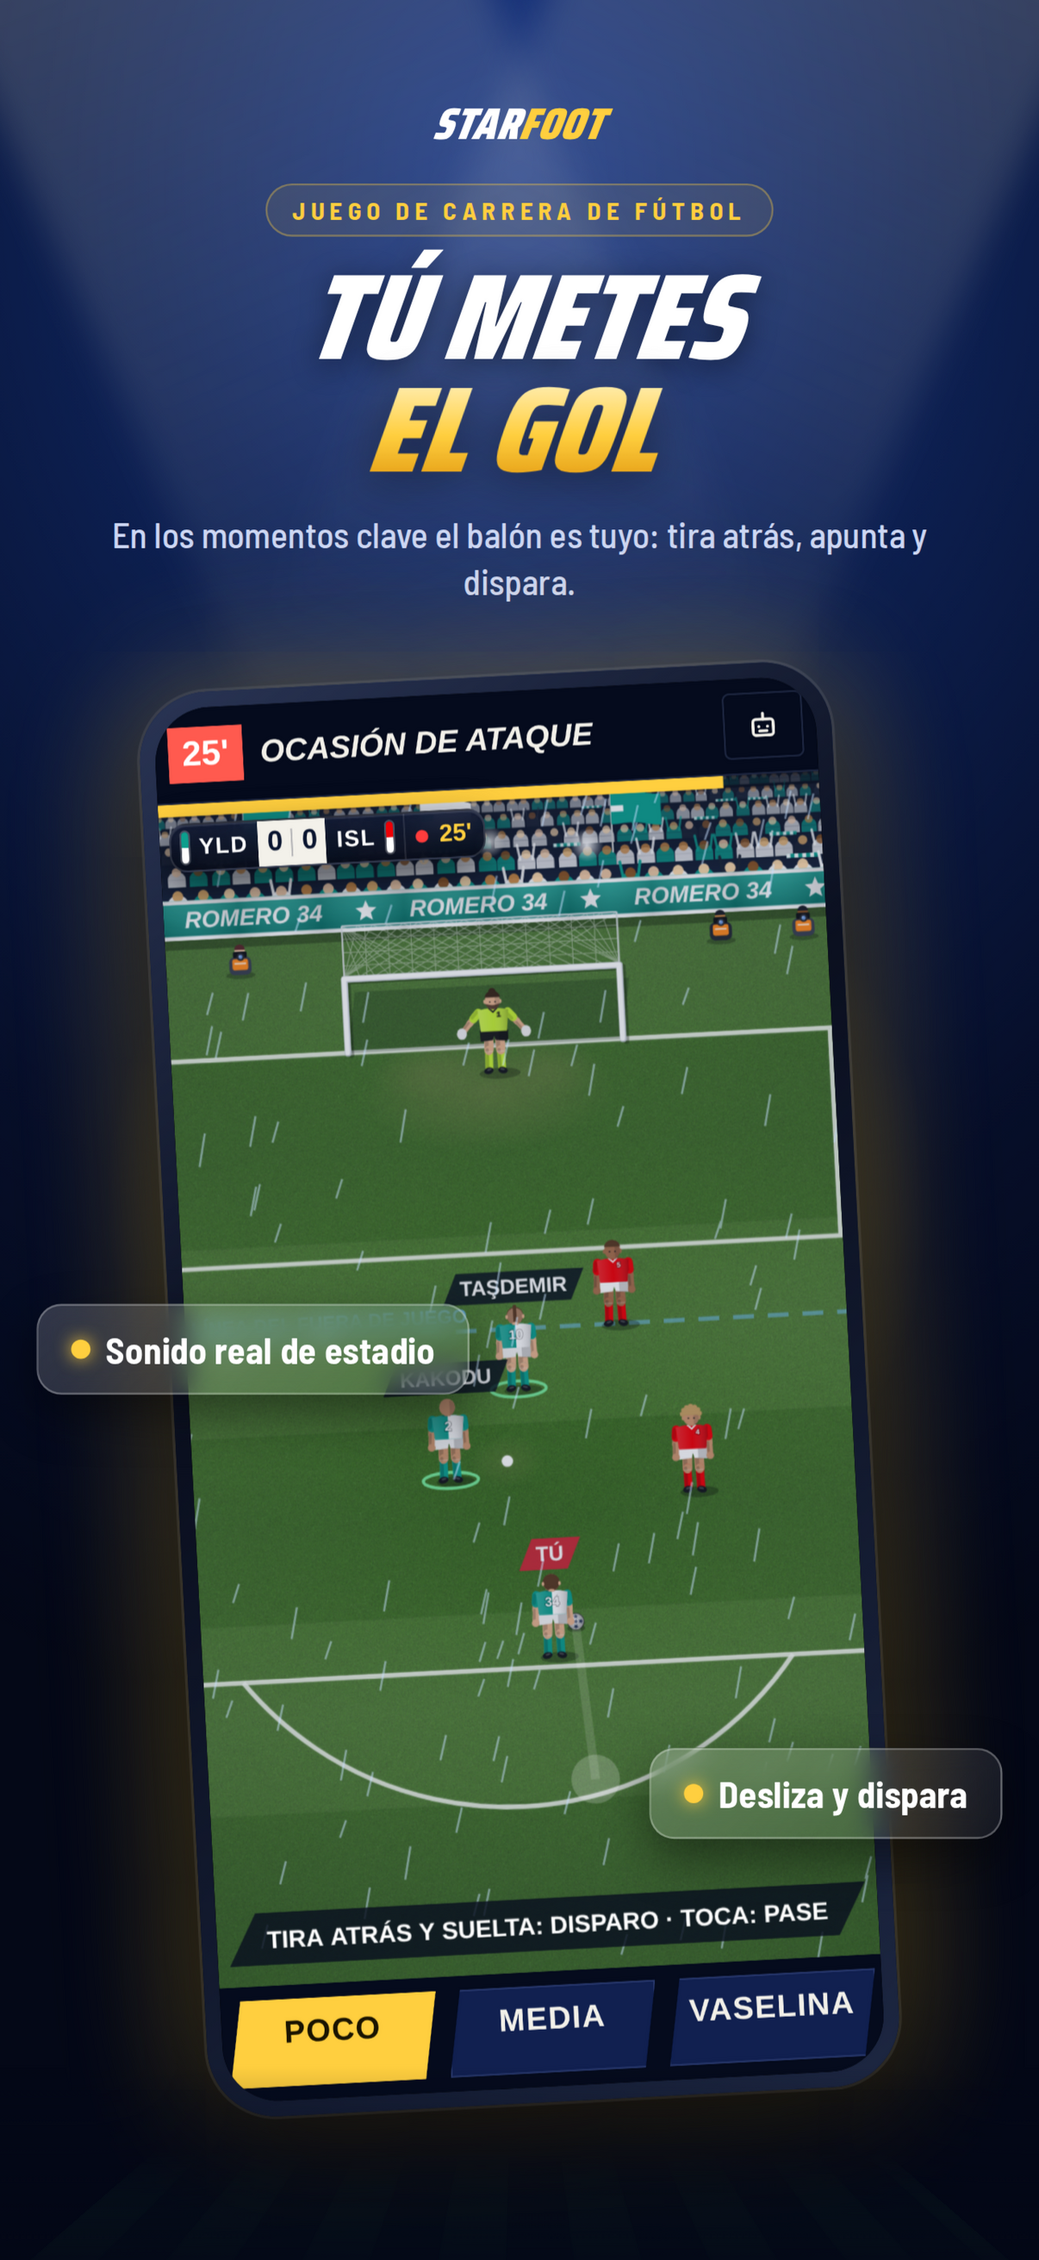
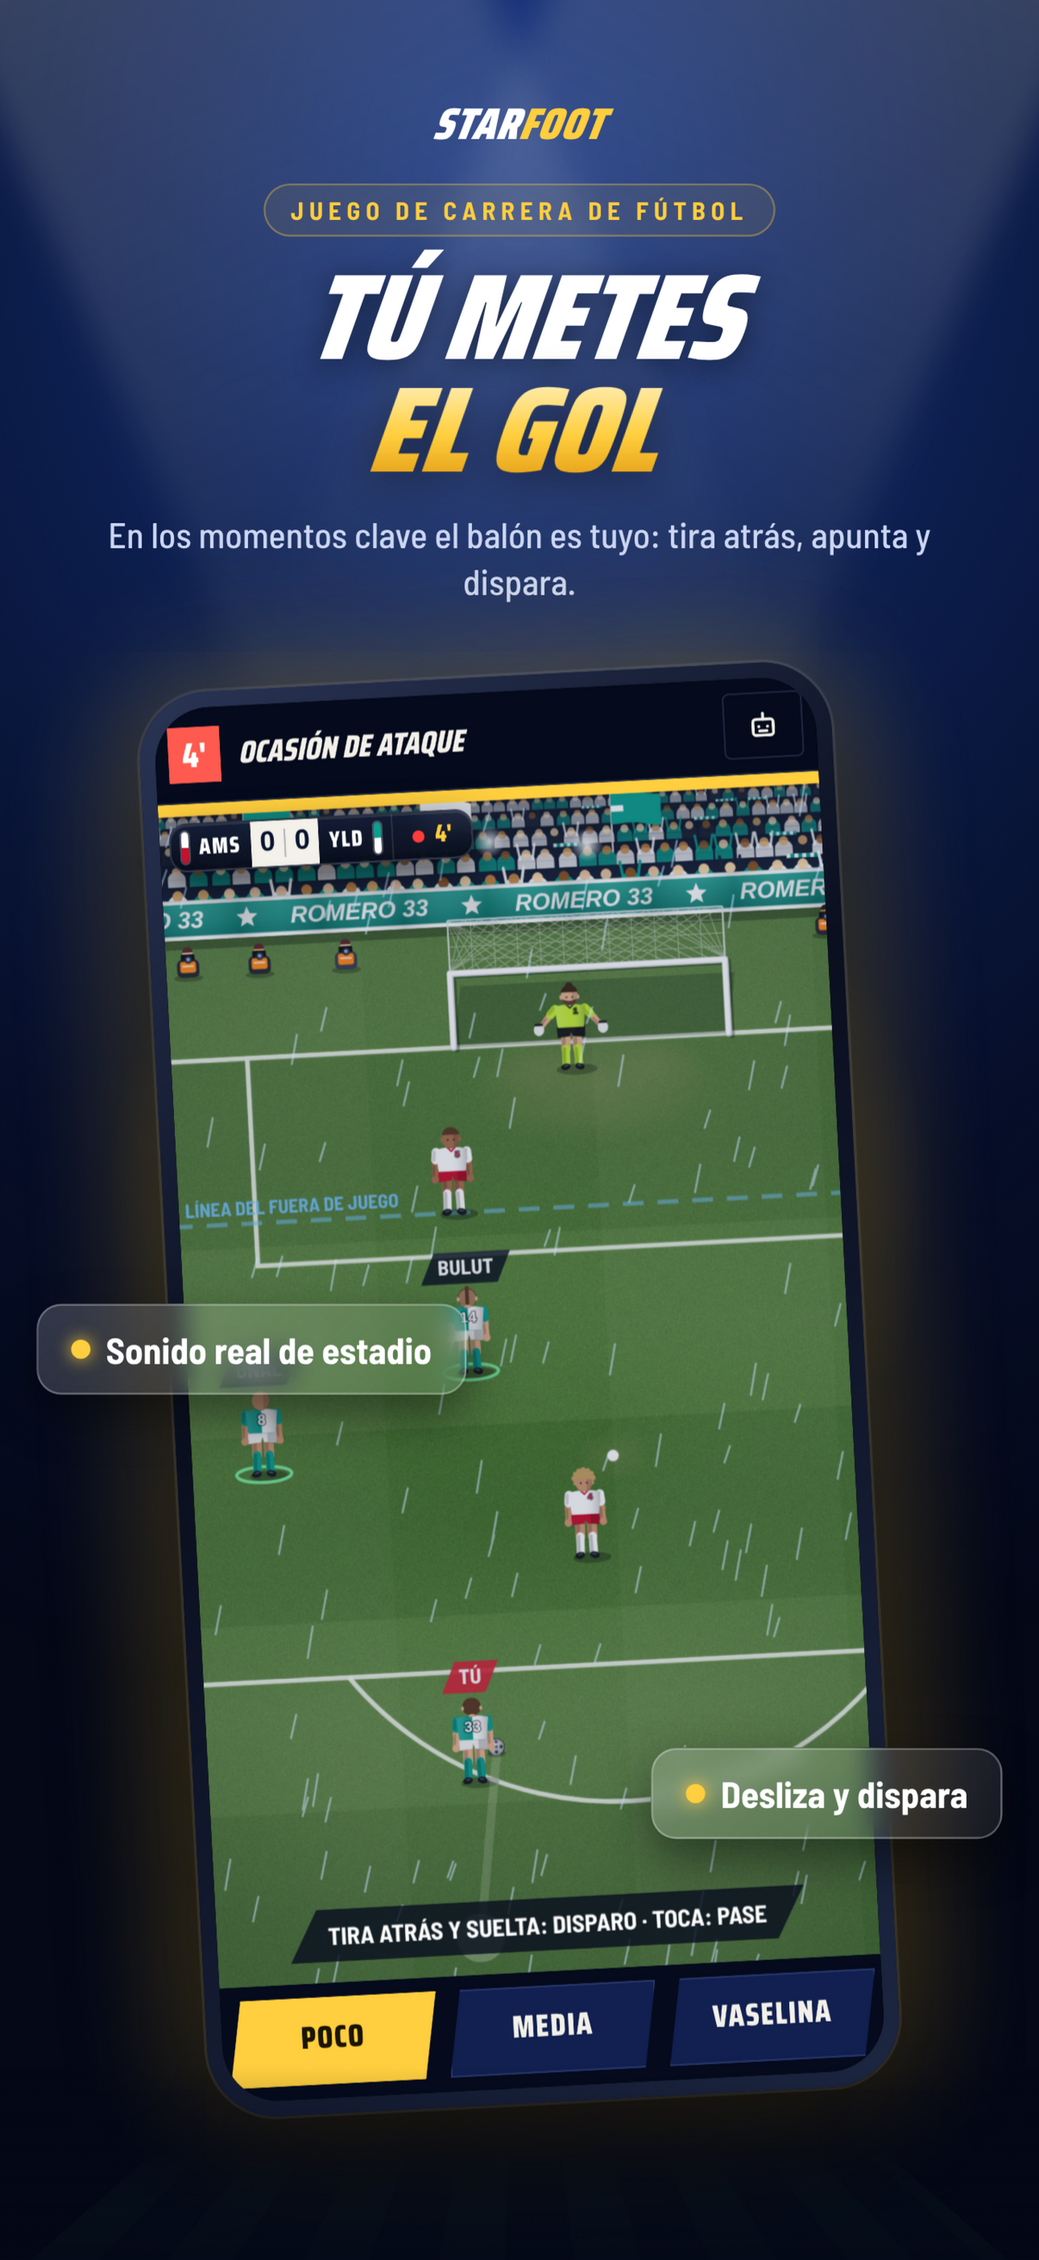
1.0.19 mağaza hazırlığı: yeni ekran görüntüleri, Teknik Direktör etkinliği, starfoot://coach bağlantısı [skip ci]
- App Store görselleri (TR/EN/ES, iPhone 6.9" ve 6.3", iPad 13"): 2. görsel Teknik Direktör canlı maç ekranı,
  madalyalar sahnesi çıkarıldı; tüm sahneler oyunun güncel haliyle yeniden çekildi
- Uygulama içi etkinlik taslağı "Teknik Direktör Oldun!" (9 dil, yazısız kart ve detay görseli)
- starfoot://coach derin bağlantısı: Teknik Direktör menüsünü ya da satın alma penceresini açar
- Teknik Direktör inceleme görseli 3.99 USD ile; store/packs/review.js ile yeniden üretilebilir

Claude-Session: https://claude.ai/code/session_01UbcWLKQFNpV9b87MzUtaVX

diff --git a/store/premium/compose2.js b/store/premium/compose2.js
@@ -1,4 +1,4 @@
-// 1.0.11 App Store görselleri (7 sahne, 10 dil): node store/premium/compose2.js [ipad]
+// App Store görselleri (7 sahne: gol, teknik direktör, maç, kupa, sokak, DŞ, yaşam; 10 dil): node store/premium/compose2.js [ipad]
 // Önce: node store/premium/capture2.js (ham ekranlar raw2/, iPad için VIEW=ipad → raw2-ipad/)
 const { chromium } = require('playwright');
 const path = require('path');
@@ -17,6 +17,18 @@ const POSTERS = [
     ind: { tag: 'GAME KARIER SEPAK BOLA', h1: 'KAMU YANG', h2: 'CETAK GOL', sub: 'Di momen penting bola ada di kakimu: tarik, bidik, tendang!', chips: [['Suara stadion asli', 'left', 1060], ['Geser & tendang', 'right', 1520]] },
     ar: { tag: 'لعبة مسيرة كرة القدم', h1: 'أنت من', h2: 'يسجل الهدف', sub: 'في اللحظات الحاسمة الكرة عند قدميك: اسحب، صوّب، سدّد!', chips: [['صوت ملعب حقيقي', 'left', 1060], ['اسحب وسدد', 'right', 1520]] },
     ja: { tag: 'サッカーキャリアゲーム', h1: 'ゴールを', h2: '決めるのは君', sub: '決定的な瞬間、ボールは君の足元に。引いて、狙って、蹴り込め！', chips: [['本物のスタジアム音', 'left', 1060], ['引いてシュート', 'right', 1520]] },
+  }),
+  P('coach', '#46e08f', 'rgba(70,224,143,.42)', 3, {}, {
+    tr: { tag: 'YENİ MOD', h1: 'TEKNİK', h2: 'DİREKTÖR OL', sub: 'Kadroyu kur, taktiği seç, maçı kenardan canlı yönet.', chips: [['Canlı maç yönetimi', 'right', 1000], ['Transfer ve pazarlık', 'left', 1560]] },
+    en: { tag: 'NEW MODE', h1: 'BECOME THE', h2: 'MANAGER', sub: 'Build the squad, pick tactics and run matches live from the touchline.', chips: [['Live touchline control', 'right', 1000], ['Transfers & negotiation', 'left', 1560]] },
+    es: { tag: 'NUEVO MODO', h1: 'SÉ EL', h2: 'ENTRENADOR', sub: 'Arma la plantilla, elige la táctica y dirige el partido en directo.', chips: [['Dirige en directo', 'right', 1000], ['Fichajes y negociación', 'left', 1560]] },
+    pt: { tag: 'NOVO MODO', h1: 'SEJA O', h2: 'TÉCNICO', sub: 'Monte o elenco, escolha a tática e comande o jogo ao vivo.', chips: [['Comando ao vivo', 'right', 1000], ['Contratações', 'left', 1560]] },
+    de: { tag: 'NEUER MODUS', h1: 'WERDE', h2: 'TRAINER', sub: 'Kader bauen, Taktik wählen und Spiele live von der Seitenlinie leiten.', chips: [['Live an der Seitenlinie', 'right', 1000], ['Transfers & Verhandlungen', 'left', 1560]] },
+    fr: { tag: 'NOUVEAU MODE', h1: 'DEVIENS', h2: 'ENTRAÎNEUR', sub: "Compose l'effectif, choisis la tactique et dirige le match en direct.", chips: [['Coaching en direct', 'right', 1000], ['Transferts', 'left', 1560]] },
+    it: { tag: 'NUOVA MODALITÀ', h1: 'DIVENTA', h2: 'ALLENATORE', sub: 'Costruisci la rosa, scegli la tattica e guida la partita dal vivo.', chips: [['Guida dal vivo', 'right', 1000], ['Calciomercato', 'left', 1560]] },
+    ind: { tag: 'MODE BARU', h1: 'JADILAH', h2: 'PELATIH', sub: 'Bangun skuad, pilih taktik dan pimpin laga langsung dari pinggir lapangan.', chips: [['Kendali langsung', 'right', 1000], ['Transfer & negosiasi', 'left', 1560]] },
+    ar: { tag: 'وضع جديد', h1: 'كن', h2: 'المدرب', sub: 'ابنِ التشكيلة واختر الخطة وقُد المباراة مباشرة من خط التماس.', chips: [['قيادة مباشرة', 'right', 1000], ['الانتقالات والتفاوض', 'left', 1560]] },
+    ja: { tag: '新モード', h1: '監督に', h2: 'なろう', sub: '選手を揃え、戦術を決め、ベンチから試合をライブで指揮。', chips: [['ライブ采配', 'right', 1000], ['移籍・交渉', 'left', 1560]] },
   }),
   P('match', '#8fb8ff', 'rgba(120,170,255,.5)', 3, { stars: true }, {
     tr: { tag: 'CANLI MAÇ', h1: 'MAÇI', h2: 'CANLI YAŞA', sub: 'Maç radarı, dakika dakika akış ve tribünün uğultusu.', chips: [['Maç radarı', 'right', 1000], ['Şampiyonlar Kupası geceleri', 'left', 1560]] },
@@ -77,18 +89,6 @@ const POSTERS = [
     ind: { tag: 'HIDUP DI LUAR LAPANGAN', h1: 'BINTANG', h2: 'DI LUAR LAPANGAN', sub: 'Mobil super, vila, sponsor, dan jutaan pengikut.', chips: [['Etalase mewah', 'right', 1040], ['Jutaan pengikut', 'left', 1520]] },
     ar: { tag: 'الحياة خارج الملعب', h1: 'نجم', h2: 'خارج الملعب', sub: 'سيارات خارقة وفلل وعقود رعاية وملايين المتابعين.', chips: [['واجهة الحياة الفاخرة', 'right', 1040], ['ملايين المتابعين', 'left', 1520]] },
     ja: { tag: 'ピッチ外のライフ', h1: 'ピッチの外でも', h2: 'スターに', sub: 'スーパーカー、豪邸、スポンサー契約、そして数百万のフォロワー。', chips: [['ラグジュアリー', 'right', 1040], ['数百万のフォロワー', 'left', 1520]] },
-  }),
-  P('medals', '#ffd36b', 'rgba(255,190,60,.5)', -3, {}, {
-    tr: { tag: 'BAŞARIMLAR', h1: '100+ MADALYA', h2: 'DÜNYA SIRALAMASI', sub: "Game Center'da dünyayla yarış; kariyerin iCloud'da güvende.", chips: [['Game Center', 'left', 1060], ['iCloud yedeği', 'right', 1520]] },
-    en: { tag: 'ACHIEVEMENTS', h1: '100+ MEDALS', h2: 'WORLD RANKINGS', sub: 'Compete with the world on Game Center; your career is safe in iCloud.', chips: [['Game Center', 'left', 1060], ['iCloud backup', 'right', 1520]] },
-    es: { tag: 'LOGROS', h1: '100+ MEDALLAS', h2: 'RANKING MUNDIAL', sub: 'Compite con el mundo en Game Center; tu carrera, a salvo en iCloud.', chips: [['Game Center', 'left', 1060], ['Copia en iCloud', 'right', 1520]] },
-    pt: { tag: 'CONQUISTAS', h1: '100+ MEDALHAS', h2: 'RANKING MUNDIAL', sub: 'Dispute com o mundo no Game Center; sua carreira segura no iCloud.', chips: [['Game Center', 'left', 1060], ['Backup no iCloud', 'right', 1520]] },
-    de: { tag: 'ERFOLGE', h1: '100+ MEDAILLEN', h2: 'WELTRANGLISTE', sub: 'Miss dich mit der Welt im Game Center; deine Karriere ist in iCloud sicher.', chips: [['Game Center', 'left', 1060], ['iCloud-Backup', 'right', 1520]] },
-    fr: { tag: 'SUCCÈS', h1: '100+ MÉDAILLES', h2: 'CLASSEMENT MONDIAL', sub: 'Affronte le monde sur Game Center ; ta carrière est en sécurité sur iCloud.', chips: [['Game Center', 'left', 1060], ['Sauvegarde iCloud', 'right', 1520]] },
-    it: { tag: 'OBIETTIVI', h1: '100+ MEDAGLIE', h2: 'CLASSIFICA MONDIALE', sub: 'Sfida il mondo su Game Center; la tua carriera è al sicuro su iCloud.', chips: [['Game Center', 'left', 1060], ['Backup iCloud', 'right', 1520]] },
-    ind: { tag: 'PENCAPAIAN', h1: '100+ MEDALI', h2: 'PERINGKAT DUNIA', sub: 'Bersaing dengan dunia di Game Center; kariermu aman di iCloud.', chips: [['Game Center', 'left', 1060], ['Cadangan iCloud', 'right', 1520]] },
-    ar: { tag: 'الإنجازات', h1: 'أكثر من 100 ميدالية', h2: 'الترتيب العالمي', sub: 'نافس العالم في Game Center؛ مسيرتك آمنة في iCloud.', chips: [['Game Center', 'left', 1060], ['نسخة iCloud', 'right', 1520]] },
-    ja: { tag: '実績', h1: '100以上のメダル', h2: '世界ランキング', sub: 'Game Centerで世界と競い、キャリアはiCloudで安心。', chips: [['Game Center', 'left', 1060], ['iCloudバックアップ', 'right', 1520]] },
   }),
 ];
 

diff --git a/store/asc/events/coach-art.js b/store/asc/events/coach-art.js
@@ -1,0 +1,59 @@
+// "Teknik Direktör" uygulama içi etkinliği görselleri (yazısız): node store/asc/events/coach-art.js
+// coach-card.jpg 1920x1080 ve coach-details.jpg 1080x1920. Yerel sunucu gerekir: python3 -m http.server 8765
+const { chromium } = require('playwright');
+const path = require('path');
+const fs = require('fs');
+(async () => {
+  const b = await chromium.launch();
+  for (const [name, W, H] of [['coach-card', 1920, 1080], ['coach-details', 1080, 1920]]) {
+    const pg = await b.newPage({ viewport: { width: W, height: H } });
+    await pg.goto('http://localhost:8765/oyna-r8k4tq.html');
+    await pg.waitForTimeout(700);
+    const data = await pg.evaluate(([W, H]) => {
+      document.body.innerHTML = `<canvas id="cv" width="${W}" height="${H}"></canvas>`;
+      const c = document.getElementById('cv').getContext('2d');
+      const P = { c1: '#c8102e', c2: '#ffcf3f' };
+      SocialArt.stadium(c, W, H, SocialArt.rng(19), P, false);
+      const wide = W > H;
+      // akşam ışığı ve hafif bulanık derinlik
+      const g = c.createRadialGradient(W * 0.5, H * 0.15, 40, W * 0.5, H * 0.4, Math.max(W, H));
+      g.addColorStop(0, 'rgba(255,240,200,.18)'); g.addColorStop(1, 'rgba(0,0,0,.35)');
+      c.fillStyle = g; c.fillRect(0, 0, W, H);
+      // teknik alan çizgisi
+      const gy = H * (wide ? 0.97 : 0.9);
+      c.strokeStyle = 'rgba(255,255,255,.55)'; c.lineWidth = 6; c.setLineDash([26, 22]);
+      c.beginPath(); c.moveTo(0, gy - H * 0.06); c.lineTo(W, gy - H * 0.06); c.stroke(); c.setLineDash([]);
+      // arka planda oyuncular (bulanık)
+      c.save(); c.filter = 'blur(3px)'; c.globalAlpha = 0.85;
+      const pk = Sprites.kit({ id: 'X', c1: P.c1, c2: P.c2 }, false), ok = Sprites.kit({ id: 'Y', c1: '#1e5bd8', c2: '#ffffff' }, false);
+      [[0.84, 0.66, pk, 1.2], [0.93, 0.6, ok, 2.4]].forEach(([x, y, k, run], i) => {
+        if (!wide && x < 0.5) return;
+        Sprites.figure(c, W * (wide ? x : x - 0.05), H * y, H * (wide ? 0.22 : 0.13), { kit: k, look: Sprites.look(i + 3), facing: 'down', number: 7 + i, run, speed: 0.9, t: 0 });
+      });
+      c.restore();
+      // taktik tahtası
+      const bw = wide ? 560 : 520, bh = bw * 0.68, bx = wide ? W * 0.07 : W * 0.5 - bw / 2, by = wide ? H * 0.3 : H * 0.07;
+      c.save(); c.shadowColor = 'rgba(0,0,0,.5)'; c.shadowBlur = 40; c.fillStyle = '#1f6b3e'; c.fillRect(bx, by, bw, bh); c.restore();
+      c.strokeStyle = '#e8eef5'; c.lineWidth = 10; c.strokeRect(bx, by, bw, bh);
+      c.lineWidth = 4; c.strokeStyle = 'rgba(255,255,255,.8)';
+      c.beginPath(); c.moveTo(bx + bw / 2, by); c.lineTo(bx + bw / 2, by + bh); c.stroke();
+      c.beginPath(); c.arc(bx + bw / 2, by + bh / 2, bh * 0.16, 0, Math.PI * 2); c.stroke();
+      c.strokeRect(bx, by + bh * 0.28, bw * 0.12, bh * 0.44); c.strokeRect(bx + bw * 0.88, by + bh * 0.28, bw * 0.12, bh * 0.44);
+      const dots = [[0.12, 0.5], [0.27, 0.2], [0.27, 0.4], [0.27, 0.6], [0.27, 0.8], [0.45, 0.3], [0.45, 0.5], [0.45, 0.7], [0.65, 0.22], [0.68, 0.5], [0.65, 0.78]];
+      dots.forEach(([x, y]) => { c.fillStyle = '#ffcf3f'; c.beginPath(); c.arc(bx + bw * x, by + bh * y, 13, 0, Math.PI * 2); c.fill(); c.strokeStyle = '#0b1020'; c.lineWidth = 3; c.stroke(); });
+      // ok: hücum yönü
+      c.strokeStyle = '#ffffff'; c.lineWidth = 6; c.beginPath(); c.moveTo(bx + bw * 0.45, by + bh * 0.5); c.quadraticCurveTo(bx + bw * 0.6, by + bh * 0.35, bx + bw * 0.8, by + bh * 0.42); c.stroke();
+      c.fillStyle = '#ffffff'; c.beginPath(); c.moveTo(bx + bw * 0.83, by + bh * 0.43); c.lineTo(bx + bw * 0.78, by + bh * 0.36); c.lineTo(bx + bw * 0.77, by + bh * 0.47); c.closePath(); c.fill();
+      // takım elbiseli teknik direktör
+      const kit = { shirt: '#1d2433', alt: '#ffffff', pattern: 'plain', shorts: '#1d2433', socks: '#1d2433', pants: '#1d2433', coat: 'suit', tie: P.c1 };
+      const look = { skin: SKINS[2], hair: HAIRS[1], style: 'short', beard: 'stubble', boots: '#111' };
+      const fh = wide ? H * 0.8 : H * 0.52, fx = wide ? W * 0.6 : W * 0.5;
+      Sprites.figure(c, fx, gy, fh, { kit, look, facing: 'down', number: null, t: 0, longSleeve: true });
+      return document.getElementById('cv').toDataURL('image/jpeg', 0.92);
+    }, [W, H]);
+    fs.writeFileSync(path.join(__dirname, name + '.jpg'), Buffer.from(data.split(',')[1], 'base64'));
+    console.log(name);
+    await pg.close();
+  }
+  await b.close();
+})();

diff --git a/store/premium/capture2.js b/store/premium/capture2.js
@@ -1,5 +1,5 @@
 // 1.0.11 mağaza görselleri için ham oyun ekranları: LANGS=tr,en node store/premium/capture2.js
-// Sahneler: goal (kritik an), match (canlı maç + radar), trophy, street, wc, life, medals
+// Sahneler: goal (kritik an), coach (teknik direktör canlı maç), match (canlı maç + radar), trophy, street, wc, life
 // VIEW=ipad: iPad 13" ham ekranları raw2-ipad klasörüne
 const { chromium } = require('playwright');
 const path = require('path');
@@ -25,7 +25,7 @@ const ONLY = process.env.ONLY ? process.env.ONLY.split(',') : null;
       pg.errs = []; pg.on('pageerror', (e) => pg.errs.push(e.message));
       await pg.addInitScript((c) => { document.addEventListener('DOMContentLoaded', () => { const st = document.createElement('style'); st.textContent = c; document.head.appendChild(st); }); }, css + ja);
       await pg.goto('http://localhost:8765/oyna-r8k4tq.html');
-      await pg.evaluate((l) => { localStorage.clear(); localStorage.setItem('starfoot_lang', l); localStorage.setItem('starfoot_tut', 'done'); localStorage.setItem('starfoot_whatsnew', '1.0.11'); localStorage.setItem('starfoot_premium', '1'); localStorage.setItem('starfoot_pack_wc', '1'); localStorage.setItem('starfoot_pack_legends', '1'); localStorage.setItem('starfoot_cur', { tr: 'TRY', en: 'USD', es: 'EUR', pt: 'EUR', de: 'EUR', fr: 'EUR', it: 'EUR', id: 'USD', ar: 'USD', ja: 'USD' }[l] || 'USD'); }, l);
+      await pg.evaluate((l) => { localStorage.clear(); localStorage.setItem('starfoot_lang', l); localStorage.setItem('starfoot_tut', 'done'); localStorage.setItem('starfoot_whatsnew', '99'); localStorage.setItem('sf_v19', '1'); localStorage.setItem('starfoot_pack_coach', '1'); localStorage.setItem('starfoot_premium', '1'); localStorage.setItem('starfoot_pack_wc', '1'); localStorage.setItem('starfoot_pack_legends', '1'); localStorage.setItem('starfoot_cur', { tr: 'TRY', en: 'USD', es: 'EUR', pt: 'EUR', de: 'EUR', fr: 'EUR', it: 'EUR', id: 'USD', ar: 'USD', ja: 'USD' }[l] || 'USD'); }, l);
       await pg.reload(); await pg.waitForTimeout(500);
       return pg;
     };
@@ -147,6 +147,31 @@ const ONLY = process.env.ONLY ? process.env.ONLY.split(',') : null;
       await shot(p3, 'wc', 700);
       console.log(l, 'wc', p3.errs.slice(0, 3));
       await p3.close();
+    }
+
+    // ---------- Teknik direktör: canlı maç ekranı ----------
+    if (want('coach')) {
+      const p4 = await page();
+      const [fn, sn] = l === 'tr' ? ['Emre', 'Yıldız'] : l === 'en' ? ['Alex', 'Stone'] : await p4.evaluate(() => I18N.defName());
+      await p4.evaluate(async ([fn, sn]) => {
+        const w = (ms) => new Promise((r) => setTimeout(r, ms));
+        Coach.start({ name: fn, surname: sn, nat: I18N.home(), rep: 55, age: 42 }, 'GAL');
+        Coach.s.keyMom = false;
+        const md = document.getElementById('modal');
+        for (let i = 0; i < 5; i++) { for (let k = 0; k < 5 && !md.classList.contains('hidden'); k++) { const x = md.querySelector('.modal-btns .btn:last-child'); if (x) x.click(); await w(30); } Coach.play(true); await w(30); }
+        md.classList.add('hidden'); md.innerHTML = '';
+        Coach.view = 'home'; Coach.render();
+        Live.start(Coach.nextMatch(), false); clearTimeout(Live._t);
+        const L = Live.m; L.paused = true; L.speed = 1;
+        for (let i = 0; i < 400 && L.min < 63; i++) Live.tick();
+        L.paused = true; clearTimeout(Live._t);
+        Live.draw();
+      }, [fn, sn]);
+      await closeModals(p4);
+      await p4.evaluate(() => { const m = document.getElementById('modal'); m.classList.add('hidden'); window.scrollTo(0, 0); });
+      await shot(p4, 'coach', 900);
+      console.log(l, 'coach', p4.errs.slice(0, 3));
+      await p4.close();
     }
   }
   await b.close();

diff --git a/store/packs/review.js b/store/packs/review.js
@@ -1,0 +1,27 @@
+// Satın alma ürünlerinin App Store inceleme görselleri (1290x2796): node store/packs/review.js [coach]
+// Oyunun gerçek satın alma penceresini, metadata.json'daki fiyatla gösterir. Yerel sunucu gerekir: python3 -m http.server 8765
+const { chromium } = require('playwright');
+const path = require('path');
+const meta = require('../asc/metadata.json');
+const ONLY = process.argv[2];
+const ITEMS = { coach: 'starfoot_coach', wc: 'starfoot_wc', legends: 'starfoot_legends' };
+(async () => {
+  const b = await chromium.launch();
+  for (const [k, id] of Object.entries(ITEMS)) {
+    if (ONLY && ONLY !== k) continue;
+    const pg = await b.newPage({ viewport: { width: 430, height: 932 }, deviceScaleFactor: 3 });
+    await pg.goto('http://localhost:8765/oyna-r8k4tq.html');
+    await pg.evaluate(() => { localStorage.clear(); localStorage.setItem('starfoot_lang', 'en'); localStorage.setItem('sf_v19', '1'); localStorage.setItem('starfoot_tut', 'done'); localStorage.setItem('starfoot_whatsnew', '99'); });
+    await pg.reload(); await pg.waitForTimeout(900);
+    await pg.evaluate(([k, price]) => {
+      Premium.available = () => true;
+      Packs.price[k] = { s: '$' + price, n: +price, c: 'USD' };
+      Packs.offer(k);
+    }, [k, meta.packs[id].price]);
+    await pg.waitForTimeout(500);
+    await pg.screenshot({ path: path.join(__dirname, `${k}-review.png`) });
+    console.log(k, meta.packs[id].price);
+    await pg.close();
+  }
+  await b.close();
+})();

diff --git a/js/util.js b/js/util.js
@@ -268,12 +268,13 @@ ScreenGuard.init();
 // ---------- Derin bağlantılar (App Store etkinlikleri, paylaşımlar) ----------
 // starfoot://star  -> Starpedia (kariyerdeysen hemen, değilsen kariyere girince)
 // starfoot://wc    -> Dünya Şampiyonası Rüyası menüsü
+// starfoot://coach -> Teknik Direktör menüsü (paketi yoksa satın alma penceresi)
 const DeepLink = {
   pending: null,
   key(url) {
     const m = String(url || '').match(/^starfoot:\/\/([a-z]+)|\/go\/([a-z]+)/i);
     const k = m && (m[1] || m[2] || '').toLowerCase();
-    return k === 'star' || k === 'wc' ? k : null;
+    return k === 'star' || k === 'wc' || k === 'coach' ? k : null;
   },
   handle(url) {
     const k = DeepLink.key(url);
@@ -294,6 +295,15 @@ const DeepLink = {
       if (Game.state) { Game.save(); Game.init(); }
       Game.show('title');
       WC.menu();
+      return true;
+    }
+    if (k === 'coach') {
+      if (typeof Coach === 'undefined' || !Coach.enabled()) return false;
+      if (Coach.s && document.getElementById('coach') && !document.getElementById('coach').classList.contains('hidden')) { DeepLink.pending = null; return true; }
+      DeepLink.pending = null;
+      if (Game.state) { Game.save(); Game.init(); }
+      Game.show('title');
+      Coach.menu();
       return true;
     }
     if (k === 'star') {
